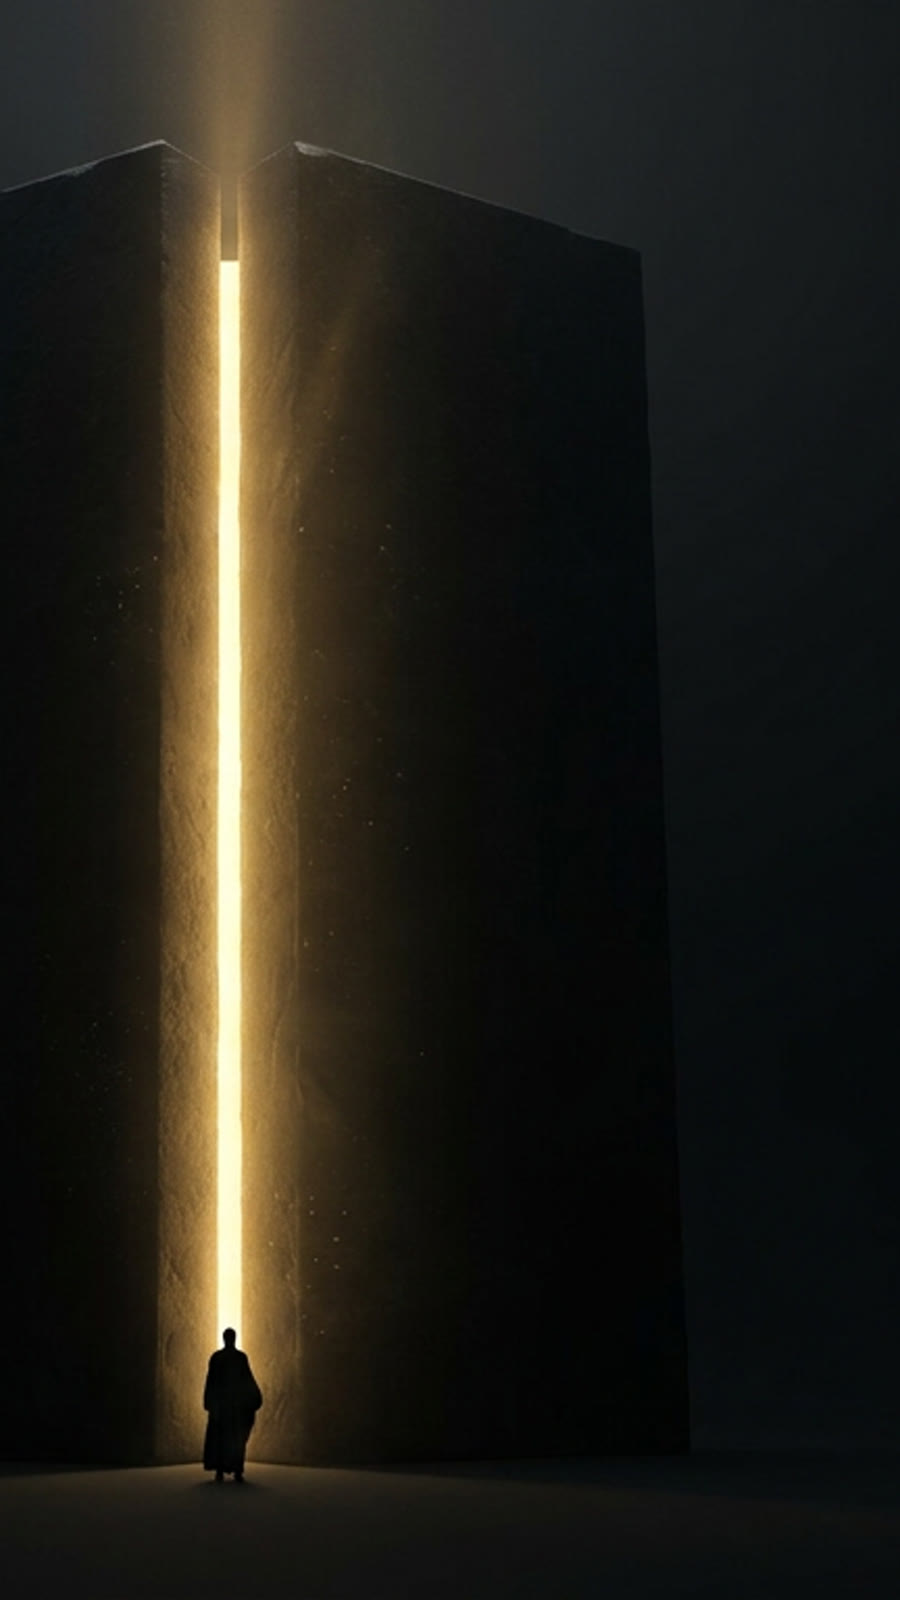
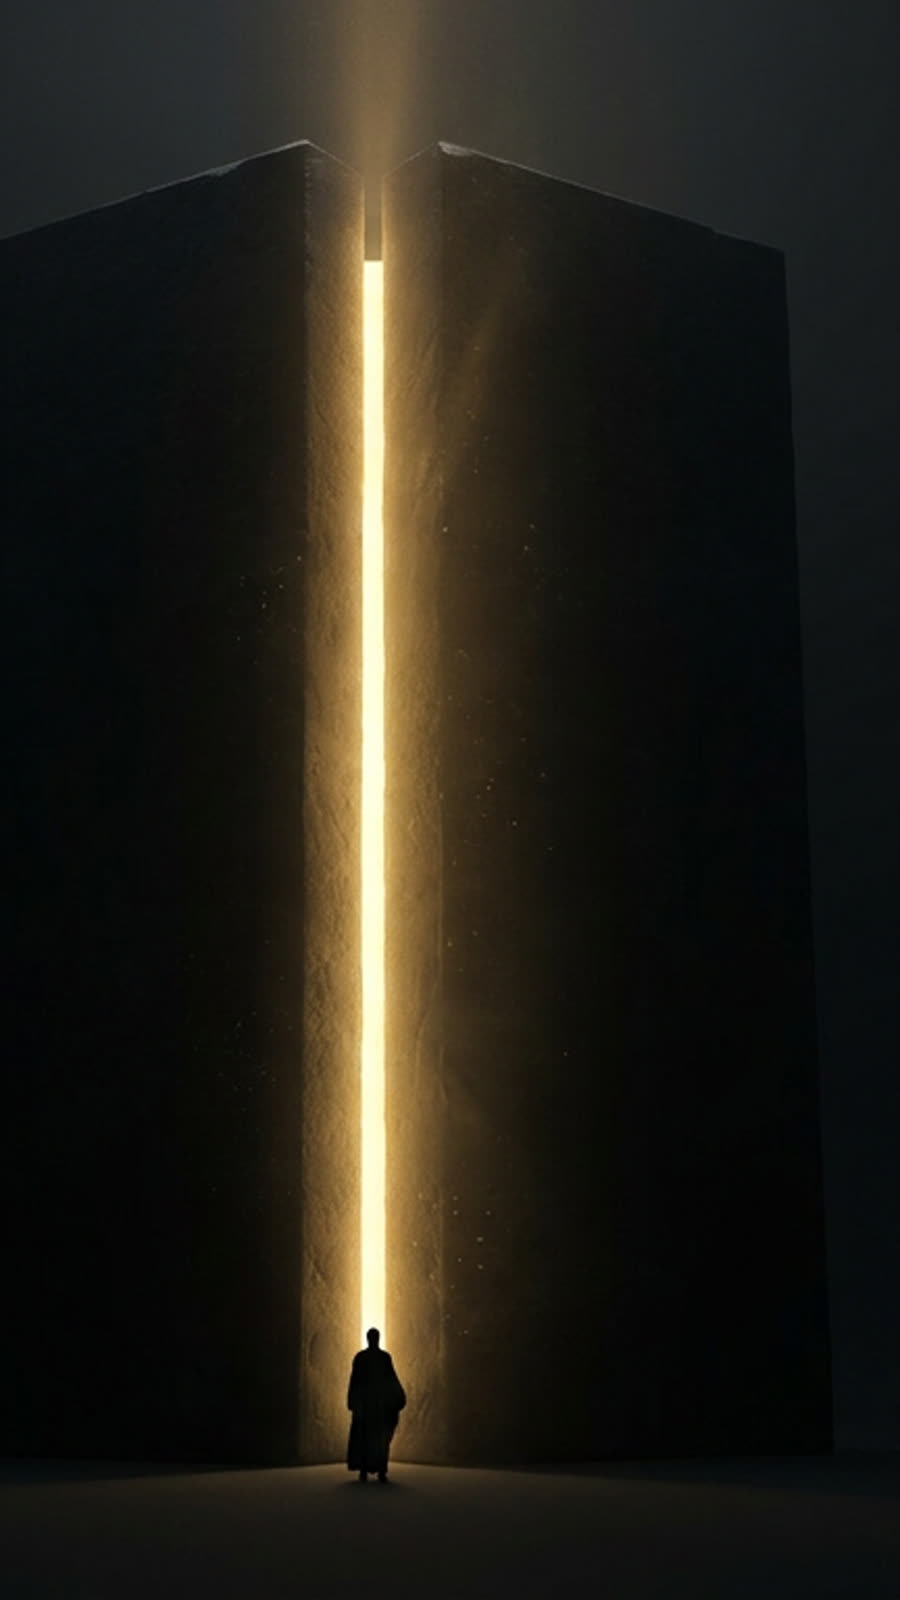
polish(pass-1): fine-tooth-comb review fixes
- micro-copy + footer colophon contrast to WCAG (mute -> dim)
- mobile veil deepened so copy always wins over the stills
- hero-mobile recropped (figure right of copy), gate-mobile recropped (slit centered)
- proof numerals keep Bodoni didone figures (deliberate)
- root-caused phantom 390px overflow to headless Chrome's 500px window clamp (no site bug)

diff --git a/src/styles/global.css b/src/styles/global.css
@@ -44,7 +44,7 @@ a:hover { text-decoration:underline; text-underline-offset:3px; }
 .eyebrow::before { content:""; width:2rem; height:1px; background:var(--gold); }
 .dim { color:var(--dim); } .mute { color:var(--mute); }
 .lede { font-size:clamp(1.05rem,1.7vw,1.3rem); line-height:var(--lh-snug); color:var(--dim); }
-.micro { font-family:var(--mono); font-size:.7rem; letter-spacing:.05em; color:var(--mute); }
+.micro { font-family:var(--mono); font-size:.7rem; letter-spacing:.05em; color:var(--dim); }
 
 .btn-p { background:var(--gold); color:#0a0805; font-weight:600; font-size:.95rem;
   padding:.9rem 1.7rem; border-radius:var(--radius); display:inline-block; border:0; cursor:pointer; }
@@ -85,4 +85,9 @@ a:hover { text-decoration:underline; text-underline-offset:3px; }
 @media (max-width:640px) {
   .section { padding-block:var(--s-16); }
   .btn-p,.btn-s { width:100%; justify-content:center; text-align:center; padding-block:1rem; }
+}
+
+/* mobile: the stills sit closer to the copy — deepen the veil so text always wins */
+@media (max-width:719px) {
+  .scene::after { background:linear-gradient(180deg,rgba(5,5,5,.72),rgba(5,5,5,.52) 30%,rgba(5,5,5,.52) 70%,rgba(5,5,5,.95)); }
 }
